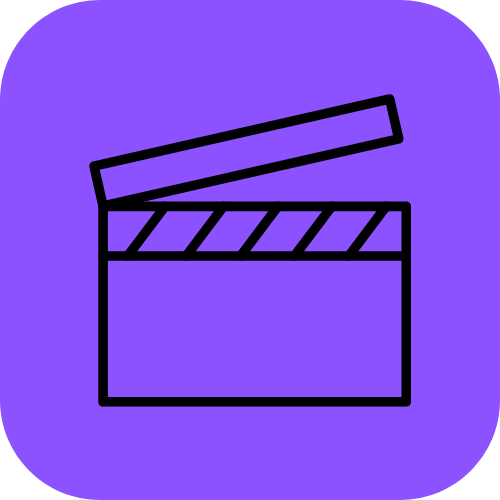
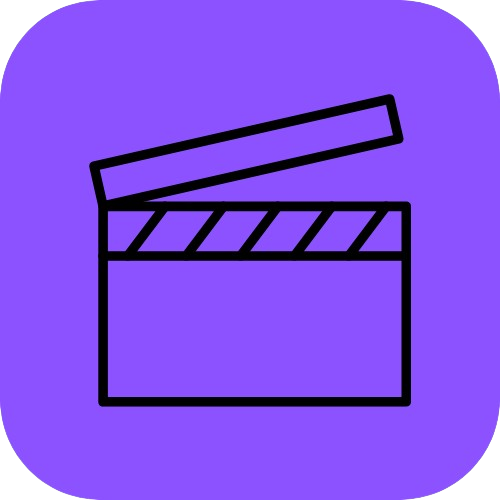
profile photo updated

diff --git a/src/constants/index.js b/src/constants/index.js
@@ -29,7 +29,7 @@ export const myProjects = [
             '',
         href: 'https://github.com/darshil040804/Personal-Portfolio-Website',
         texture: '/textures/project/project1.mp4',
-        logo: '/assets/logo_circle.png',
+        logo: '/assets/portfolio-logo.png',
         logoStyle: {
         },
         spotlight: '/assets/spotlight1.png',
